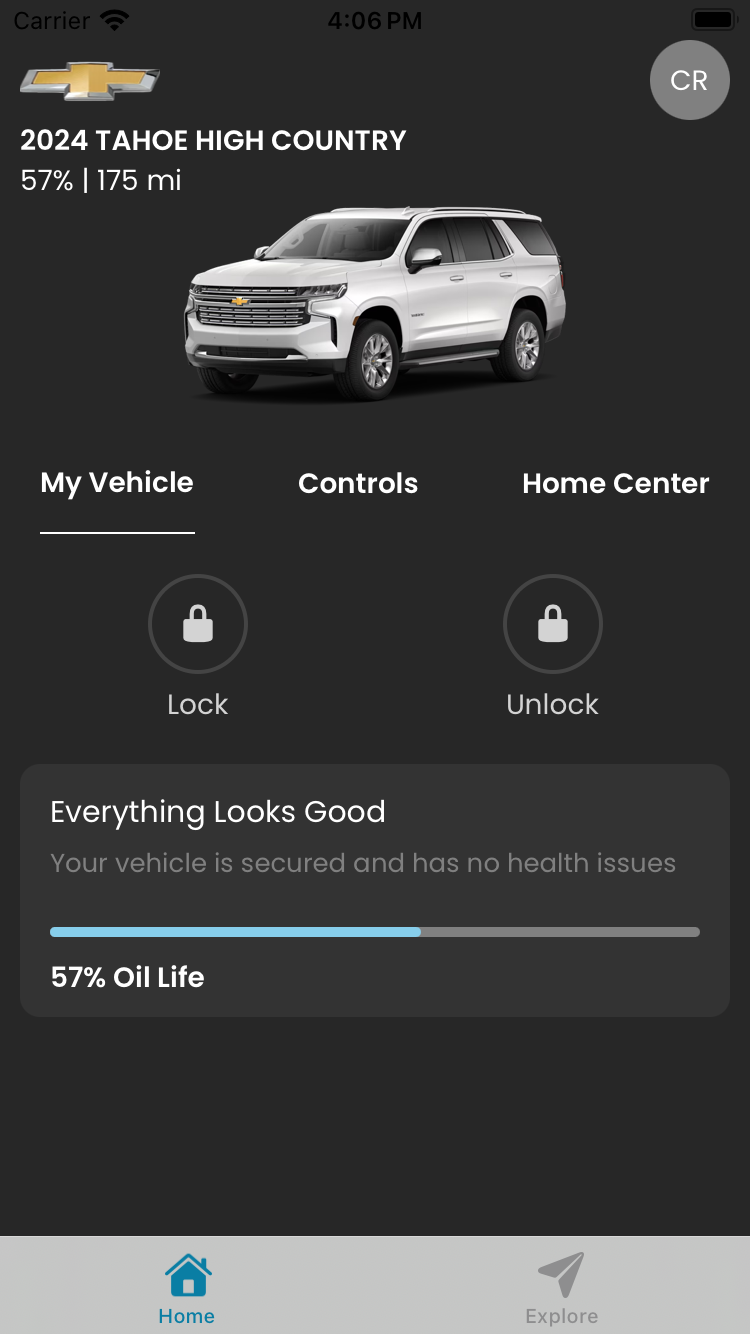
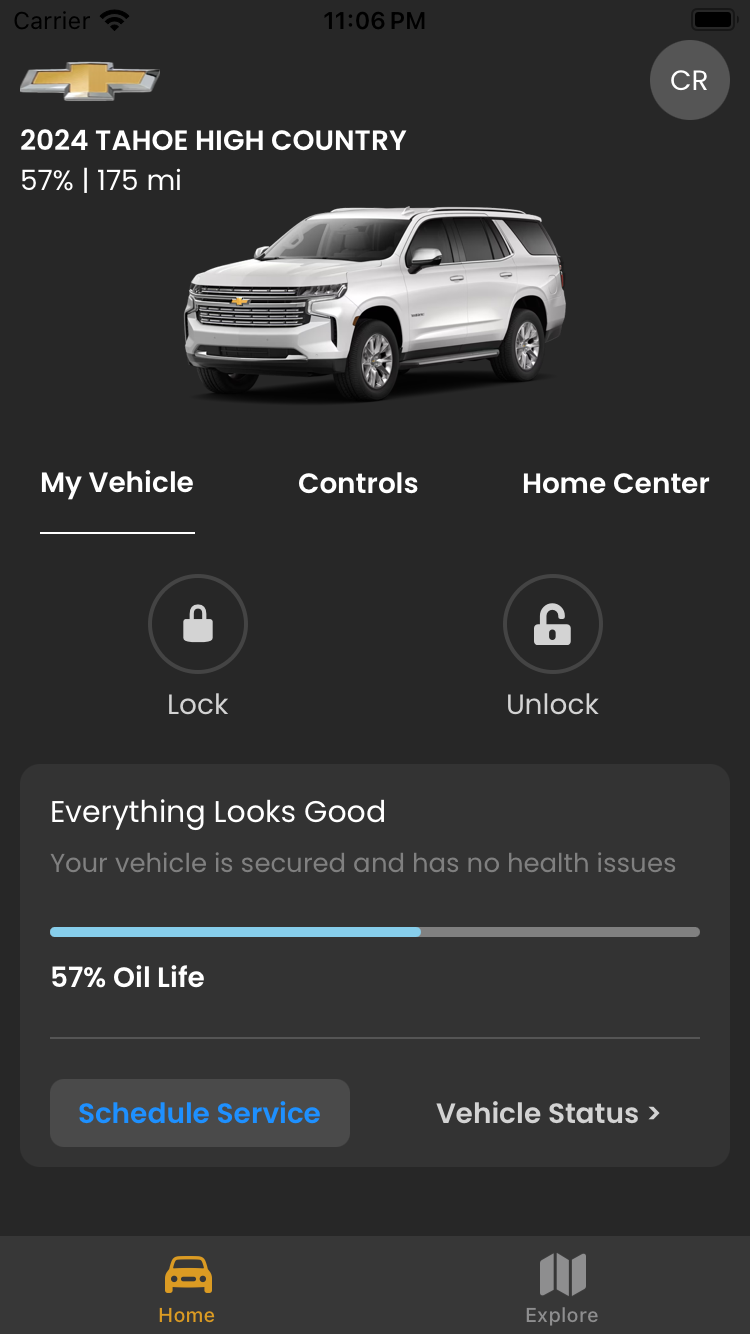
Added bottom navigation and service buttons

diff --git a/app/(tabs)/index.tsx b/app/(tabs)/index.tsx
@@ -13,6 +13,7 @@ import {
   TouchableOpacity,
 } from "react-native";
 import Entypo from "@expo/vector-icons/Entypo";
+import FontAwesome5 from "@expo/vector-icons/FontAwesome5";
 import { Text } from "@/components/StyledText";
 
 const controls = ["My Vehicle", "Controls", "Home Center"];
@@ -78,7 +79,7 @@ export default function HomeScreen() {
         </View>
         <View style={{ alignItems: "center" }}>
           <TouchableOpacity style={styles.controlButton}>
-            <Entypo name="lock" size={21} color="lightgrey" />
+            <FontAwesome5 name="unlock-alt" size={21} color="lightgrey" />
           </TouchableOpacity>
           <Text style={styles.controlButtonText}>Unlock</Text>
         </View>
@@ -92,6 +93,21 @@ export default function HomeScreen() {
           <View style={styles.progressBar} />
         </View>
         <Text bold>57% Oil Life</Text>
+        <View style={styles.divider} />
+        <View style={styles.serviceButtonsContainer}>
+          <TouchableOpacity style={styles.serviceButton}>
+            <Text bold style={{ color: "dodgerblue" }}>
+              Schedule Service
+            </Text>
+          </TouchableOpacity>
+          <TouchableOpacity
+            style={[styles.serviceButton, { backgroundColor: "transparent" }]}
+          >
+            <Text bold style={{ color: "lightgrey" }}>
+              {"Vehicle Status >"}
+            </Text>
+          </TouchableOpacity>
+        </View>
       </View>
     </ScrollView>
   );
@@ -129,6 +145,19 @@ const styles = StyleSheet.create({
     paddingVertical: 10,
     paddingHorizontal: 15,
   },
+  serviceButtonsContainer: {
+    flexDirection: "row",
+    alignItems: "center",
+    justifyContent: "space-between",
+  },
+  serviceButton: {
+    padding: 7,
+    backgroundColor: "#4a4a4a",
+    borderRadius: 7,
+    width: 150,
+    justifyContent: "center",
+    alignItems: "center",
+  },
   controlsContainer: {
     flexDirection: "row",
     alignItems: "center",
@@ -157,6 +186,12 @@ const styles = StyleSheet.create({
     marginVertical: 10,
     marginTop: 20,
   },
+  divider: {
+    width: "100%",
+    height: 1,
+    backgroundColor: "#555555",
+    marginVertical: 20,
+  },
   progressBar: {
     height: "100%",
     width: "57%",
@@ -169,7 +204,7 @@ const styles = StyleSheet.create({
     borderRadius: 20,
     justifyContent: "center",
     alignItems: "center",
-    backgroundColor: "grey",
+    backgroundColor: "#555555",
   },
   profileText: {
     fontWeight: "bold",

diff --git a/app/(tabs)/_layout.tsx b/app/(tabs)/_layout.tsx
@@ -3,8 +3,6 @@ import React from "react";
 import { Platform } from "react-native";
 
 import { IconSymbol } from "@/components/ui/IconSymbol";
-import TabBarBackground from "@/components/ui/TabBarBackground";
-import { Colors } from "@/constants/Colors";
 import { useColorScheme } from "@/hooks/useColorScheme";
 
 export default function TabLayout() {
@@ -13,16 +11,13 @@ export default function TabLayout() {
   return (
     <Tabs
       screenOptions={{
-        tabBarActiveTintColor: Colors[colorScheme ?? "light"].tint,
+        tabBarActiveTintColor: "#db9b23",
+        tabBarActiveBackgroundColor: "transparent",
+        tabBarStyle: {
+          backgroundColor: "#373737",
+          borderTopWidth: 0,
+        },
         headerShown: false,
-        tabBarBackground: TabBarBackground,
-        tabBarStyle: Platform.select({
-          ios: {
-            // Use a transparent background on iOS to show the blur effect
-            position: "absolute",
-          },
-          default: {},
-        }),
       }}
     >
       <Tabs.Screen
@@ -30,7 +25,7 @@ export default function TabLayout() {
         options={{
           title: "Home",
           tabBarIcon: ({ color }) => (
-            <IconSymbol size={28} name="house.fill" color={color} />
+            <IconSymbol size={28} name="car.fill" color={color} />
           ),
         }}
       />
@@ -39,7 +34,25 @@ export default function TabLayout() {
         options={{
           title: "Explore",
           tabBarIcon: ({ color }) => (
-            <IconSymbol size={28} name="paperplane.fill" color={color} />
+            <IconSymbol size={28} name="map.fill" color={color} />
+          ),
+        }}
+      />
+      <Tabs.Screen
+        name="shop"
+        options={{
+          title: "Shop",
+          tabBarIcon: ({ color }) => (
+            <IconSymbol size={28} name="bag.fill" color={color} />
+          ),
+        }}
+      />
+      <Tabs.Screen
+        name="more"
+        options={{
+          title: "More",
+          tabBarIcon: ({ color }) => (
+            <IconSymbol size={28} name="map.fill" color={color} />
           ),
         }}
       />
